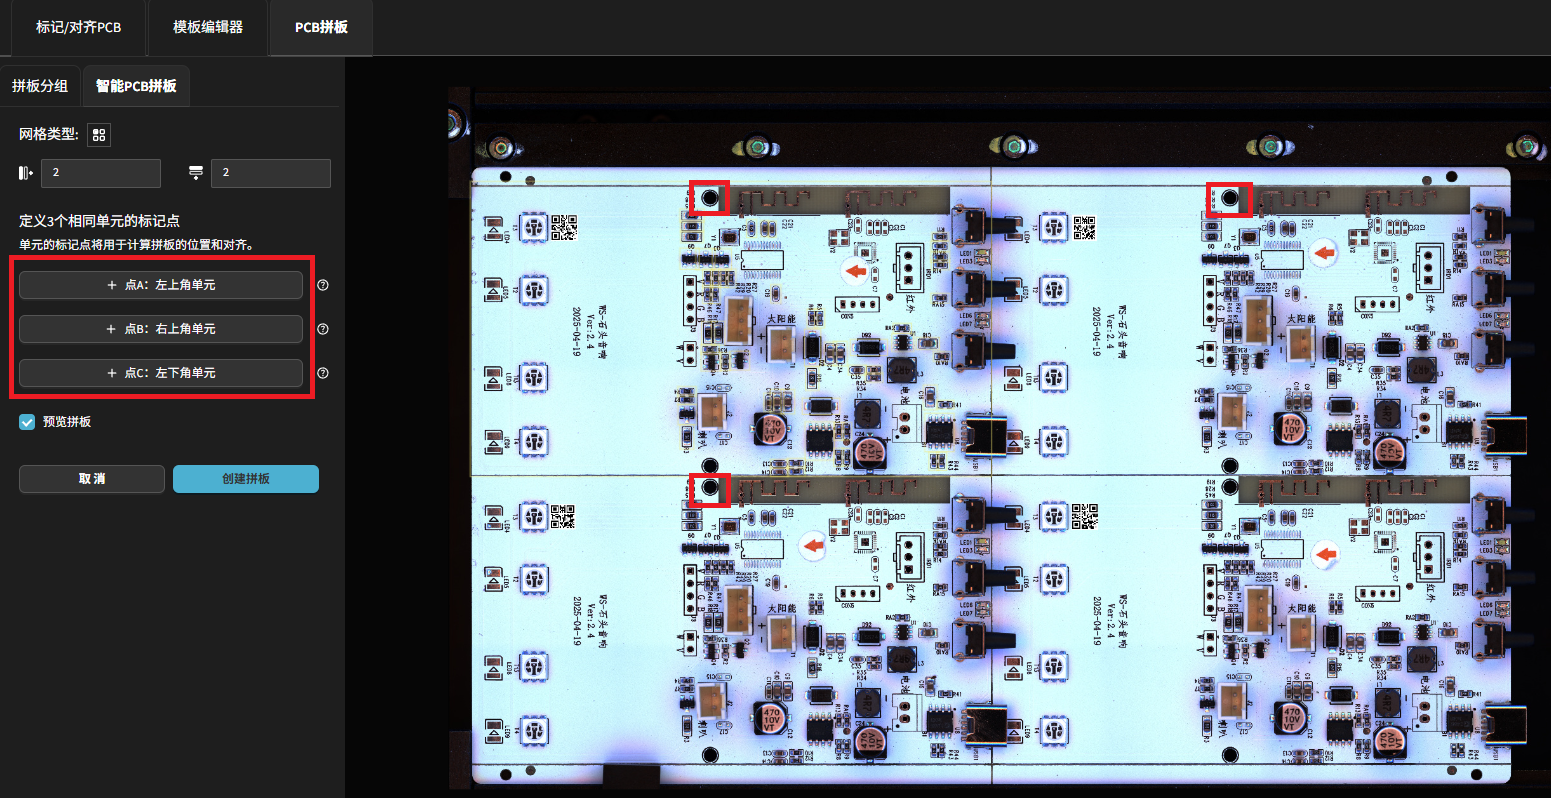
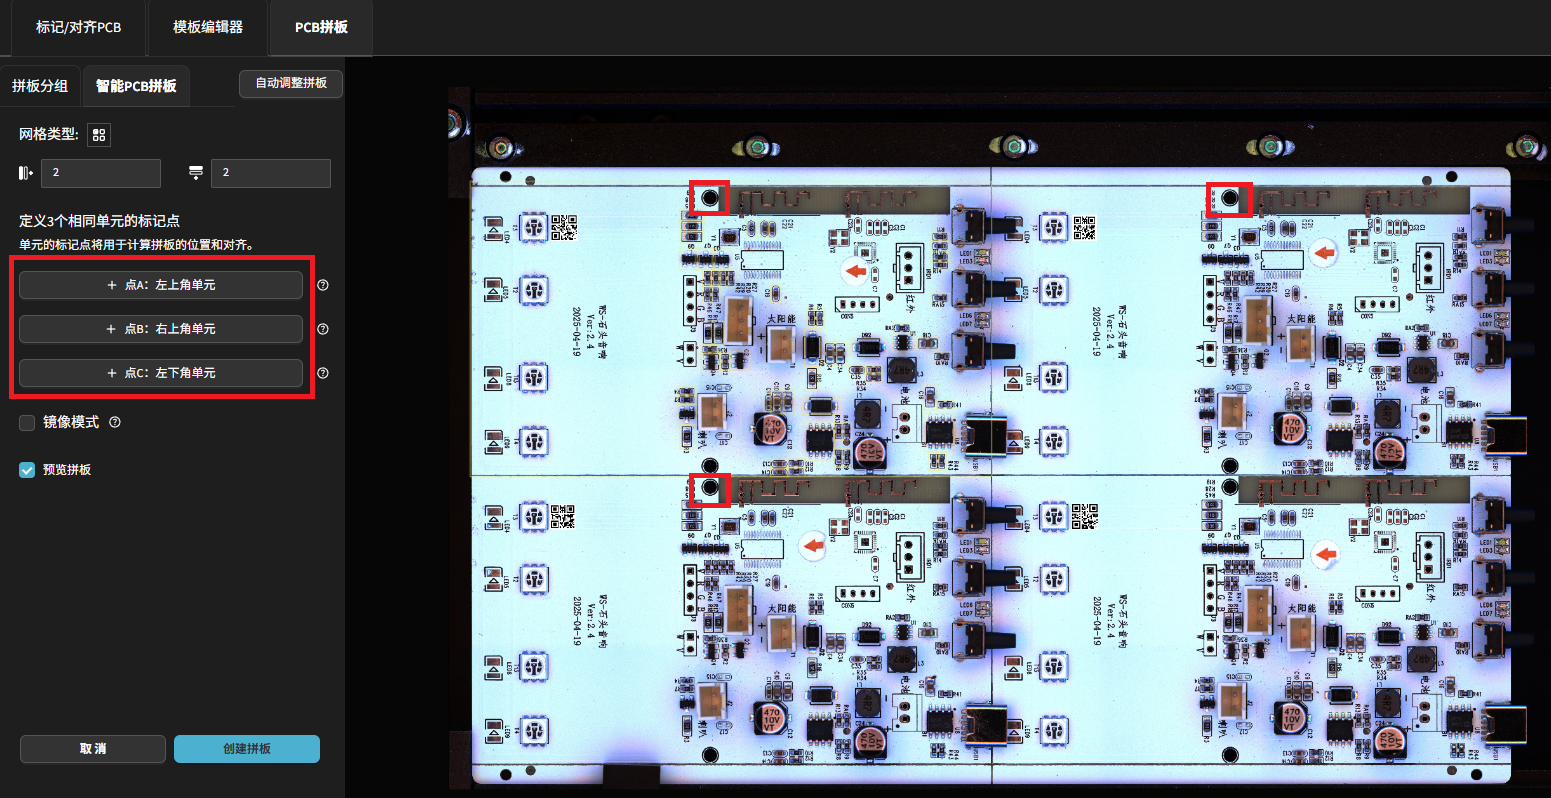
update pcb array

diff --git a/docs/source/complete_user_guide/features/pcb_array.rst b/docs/source/complete_user_guide/features/pcb_array.rst
@@ -39,21 +39,81 @@ PCB 拼版
         :scale: 50%
         :alt: 删除拼版单元示意
 
+
+正反拼版
+-----------------
+
+当拼版中存在旋转交替的情况时，可以使用智能拼版的镜像模式来快速完成设置。
+
+.. image:: images/pcb_array_mirror.png
+   :scale: 50%
+   :alt: 镜像模式示意
+
+如上图所示，第一列的拼版为正向，第二列的拼版为反向。
+
+操作步骤：
+
+    1. 首先创建正向的拼版单元，勾选镜像模式，并设置旋转角度。在此案例中，旋转角度为 180°，即镜像翻转。
+    2. 接着定义反向的镜像单元。注意锚点的选择需基于每个子板的固定特征。
+
+        - 如图所示，在正向子板中，锚点选择为子板顶部的圆形特征；而在镜像子板中，翻转后该圆形特征位于子板的底部。
+
+    3. 完成设置后，确认预览效果确保对齐无误。
+    4. 点击“创建拼版”按钮，即可完成拼版创建。
+
+
+拼版对齐
+--------------------
+
+拼版对齐功能旨在解决子板与主板之间可能存在的微小偏移问题，确保检测框位置的准确性。通过以下两种方式，用户可以快速完成对齐操作：
+
+
+全部子板元件对齐
+~~~~~~~~~~~~~~~~~~
+
+.. image:: images/pcb_array_mirror.png
+   :scale: 50%
+   :alt: 镜像模式示意
+
+在拼版视图中，完成拼版创建后，可以点击“自动调整拼版”按钮。系统将根据主板的布局，自动调整所有子板的元件框位置。其原理是通过分析主板元件的特征，找到子板中与主板元件最相似的位置，从而适配子板间可能存在的微小偏移。
+
+单个子板元件对齐
+~~~~~~~~~~~~~~~~~~
+
+在模板编辑器中，选中子板上的元件后，可以点击“自动调整元件”按钮。系统会根据主板上对应元件的位置，自动调整当前子板元件的检测框，以适配子板之间的微小偏移。
+
+.. image:: images/pcb_array_adjust.png
+   :scale: 50%
+   :alt: 单个元件对齐示意
+
+.. note::
+    使用对齐功能后，元件的 **同步 ROI** 选项会被自动关闭，以防止后续主板调整时覆盖子板的对齐结果。
+
+检测中的对齐
+~~~~~~~~~~~~~~~~~~
+
+在检测过程中，系统支持对子板元件进行微调对齐，以适应子板间的偏移。用户可以在模板编辑器中选中子板元件，并在右侧属性栏中配置以下选项：
+
+- **需要在检测中对齐**：启用后，系统会在检测时自动微调该元件的检测框位置，确保其与模板位置一致。此功能默认开启。
+- **检测允许偏移**：设置元件允许的最大偏移量。当元件的偏移超过设定值时，将不会进行对齐，以避免误对齐导致检测失败。建议根据实际需求调整阈值，避免设置过高而忽略实际元件偏移缺陷。
+- **检测允许旋转**：设置元件允许的最大旋转角度。当元件的旋转超过设定值时，将不会进行对齐。建议合理设置阈值，避免因过高的阈值导致忽略元件旋转缺陷。
+
 参数继承与同步原则
 ----------------------
 
-* 默认情况下，所有子板的检测参数（如 ROI、阈值、检测项）均继承主板设置，并且子板上的检测框不可编辑
+* 默认情况下，所有子板的检测参数（如 ROI、阈值、检测项）均继承主板设置，且子板上的检测框不可编辑。
 
 * 通过“同步 ROI”选项：
     .. image:: images/pcb_array_sync_roi.png
        :scale: 50%
        :alt: 同步 ROI 设置示意
 
-    - （默认开启）开启时，主板调整会同步到所有子板。
-    - 关闭后，可在每个子板单独调整该元件的 ROI，适用于局部差异或特殊需求。
+    - （默认开启）启用时，主板的调整会同步到所有启用该选项的子板元件，子板上的元件位置不可单独编辑。
+    - 关闭后，可在子板中单独调整元件的 ROI，适用于局部差异或特殊需求。
 
-* 数据管理：
-    - 数据集自动按元件分组，统计所有子板的检测结果。
+* 训练集管理：
+    - 系统会自动将子板中同类元件的数据合并到训练集中，便于统一训练和优化。
+
 
 条形码检测工具
 -------------------
